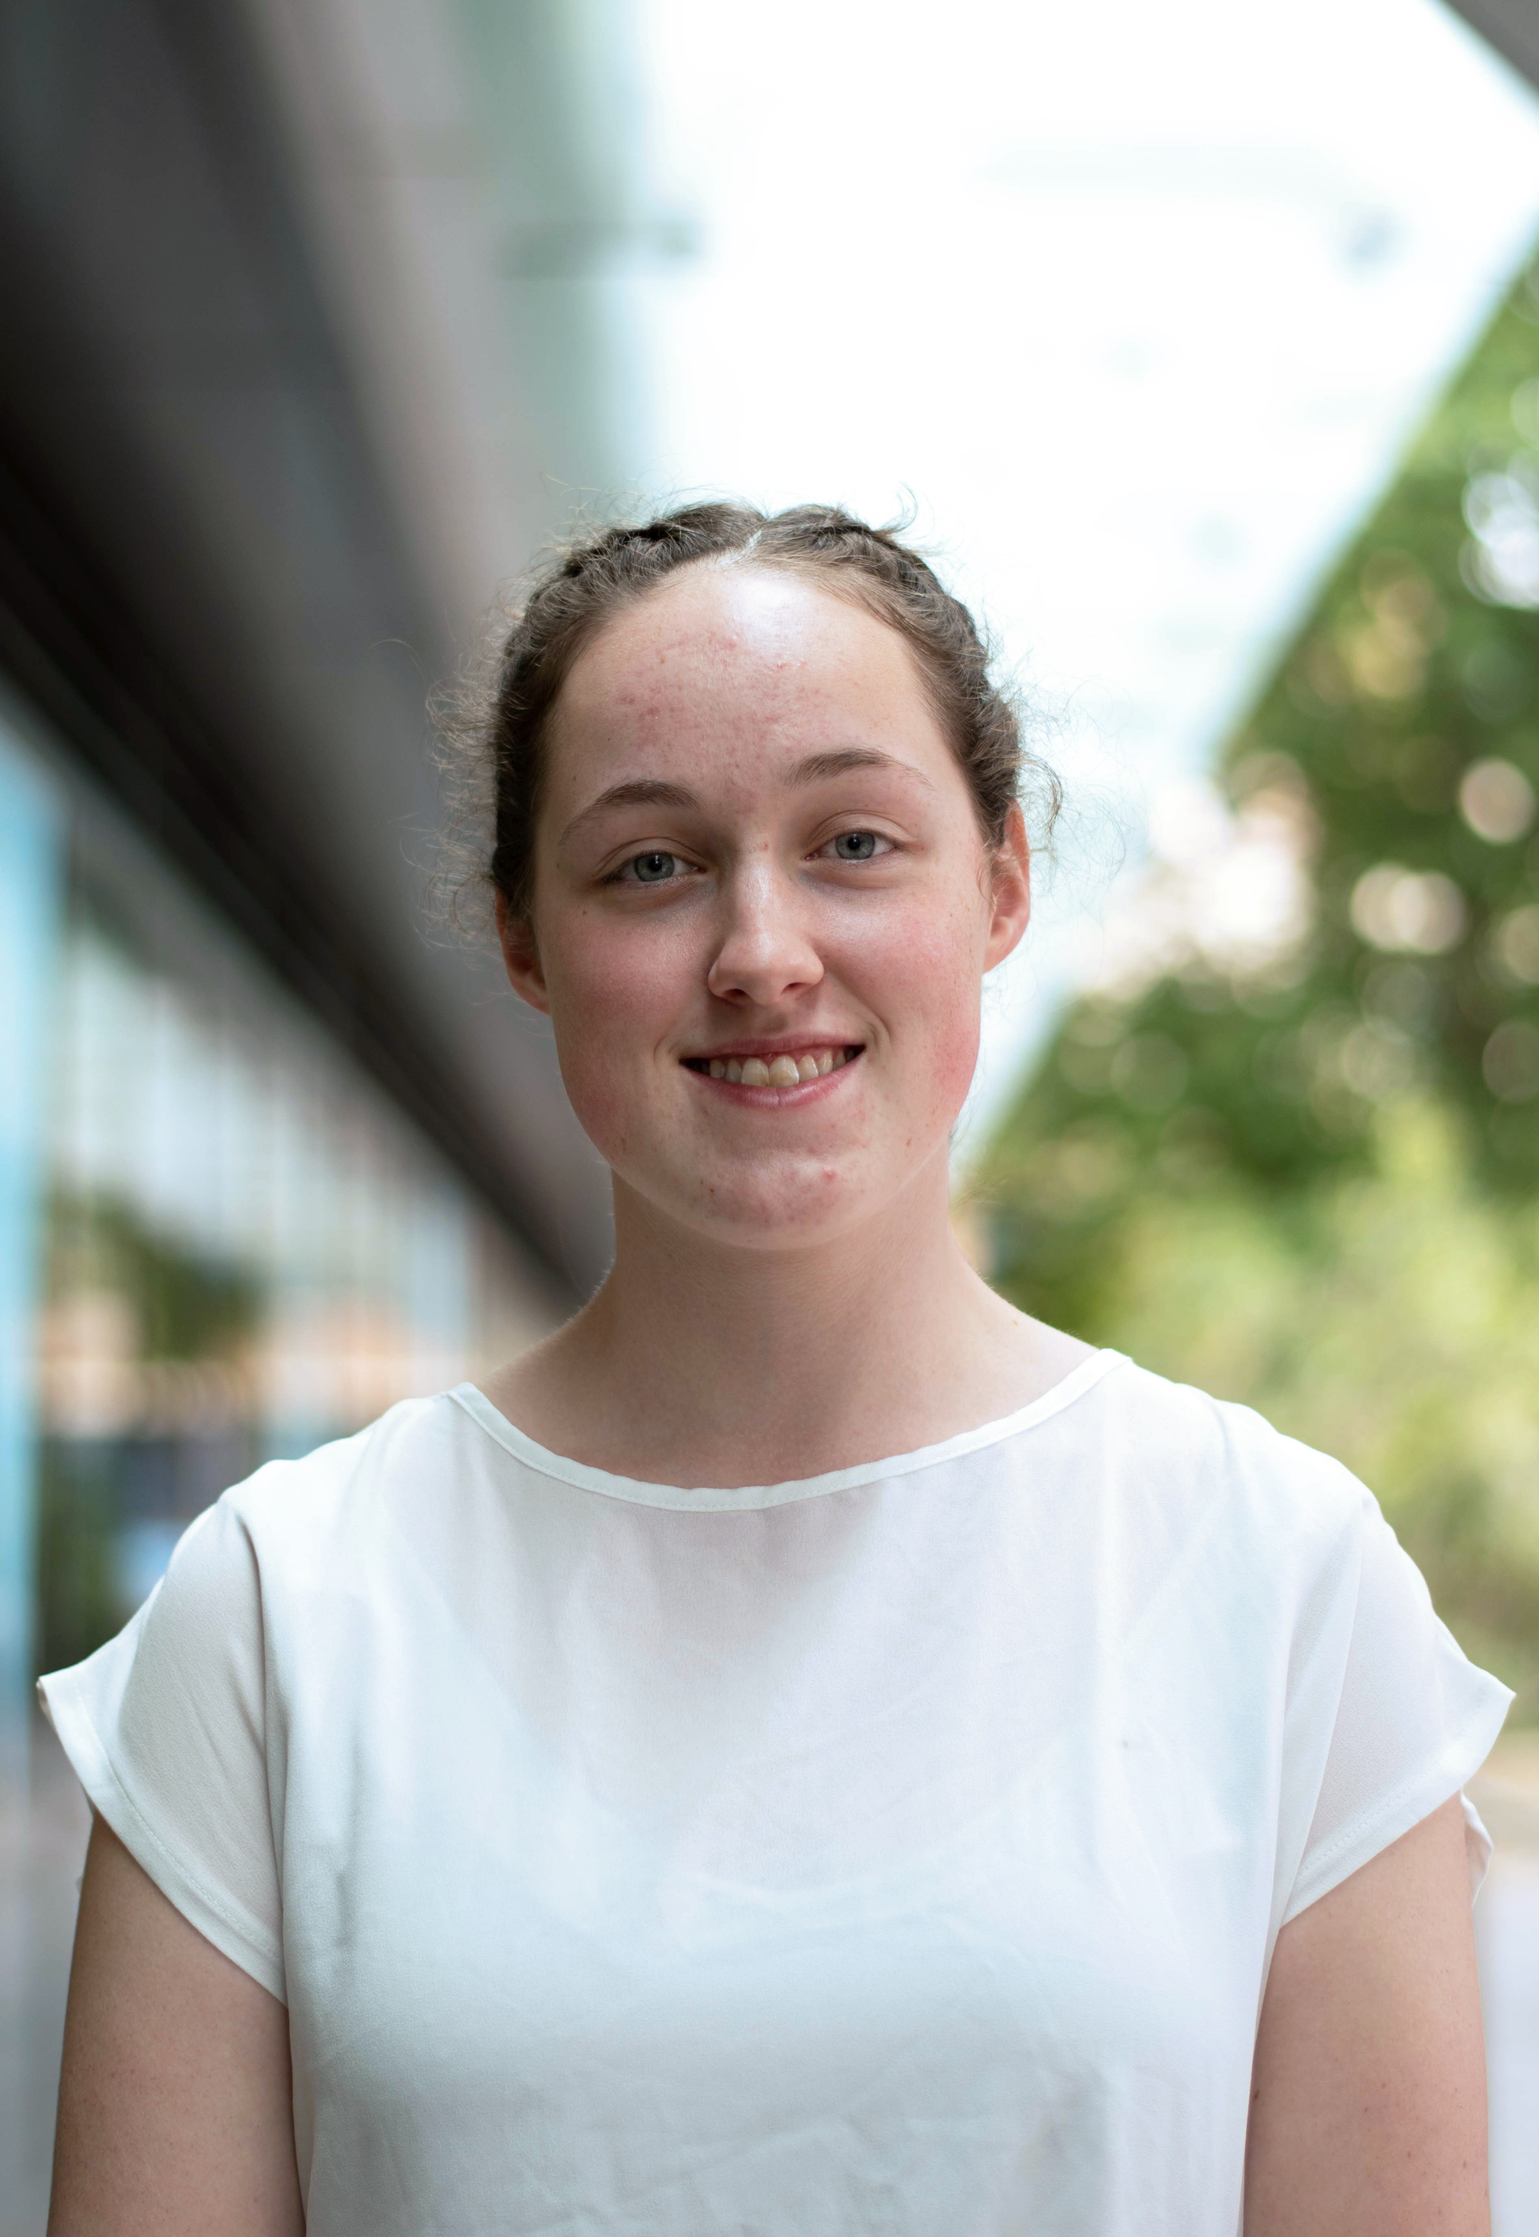
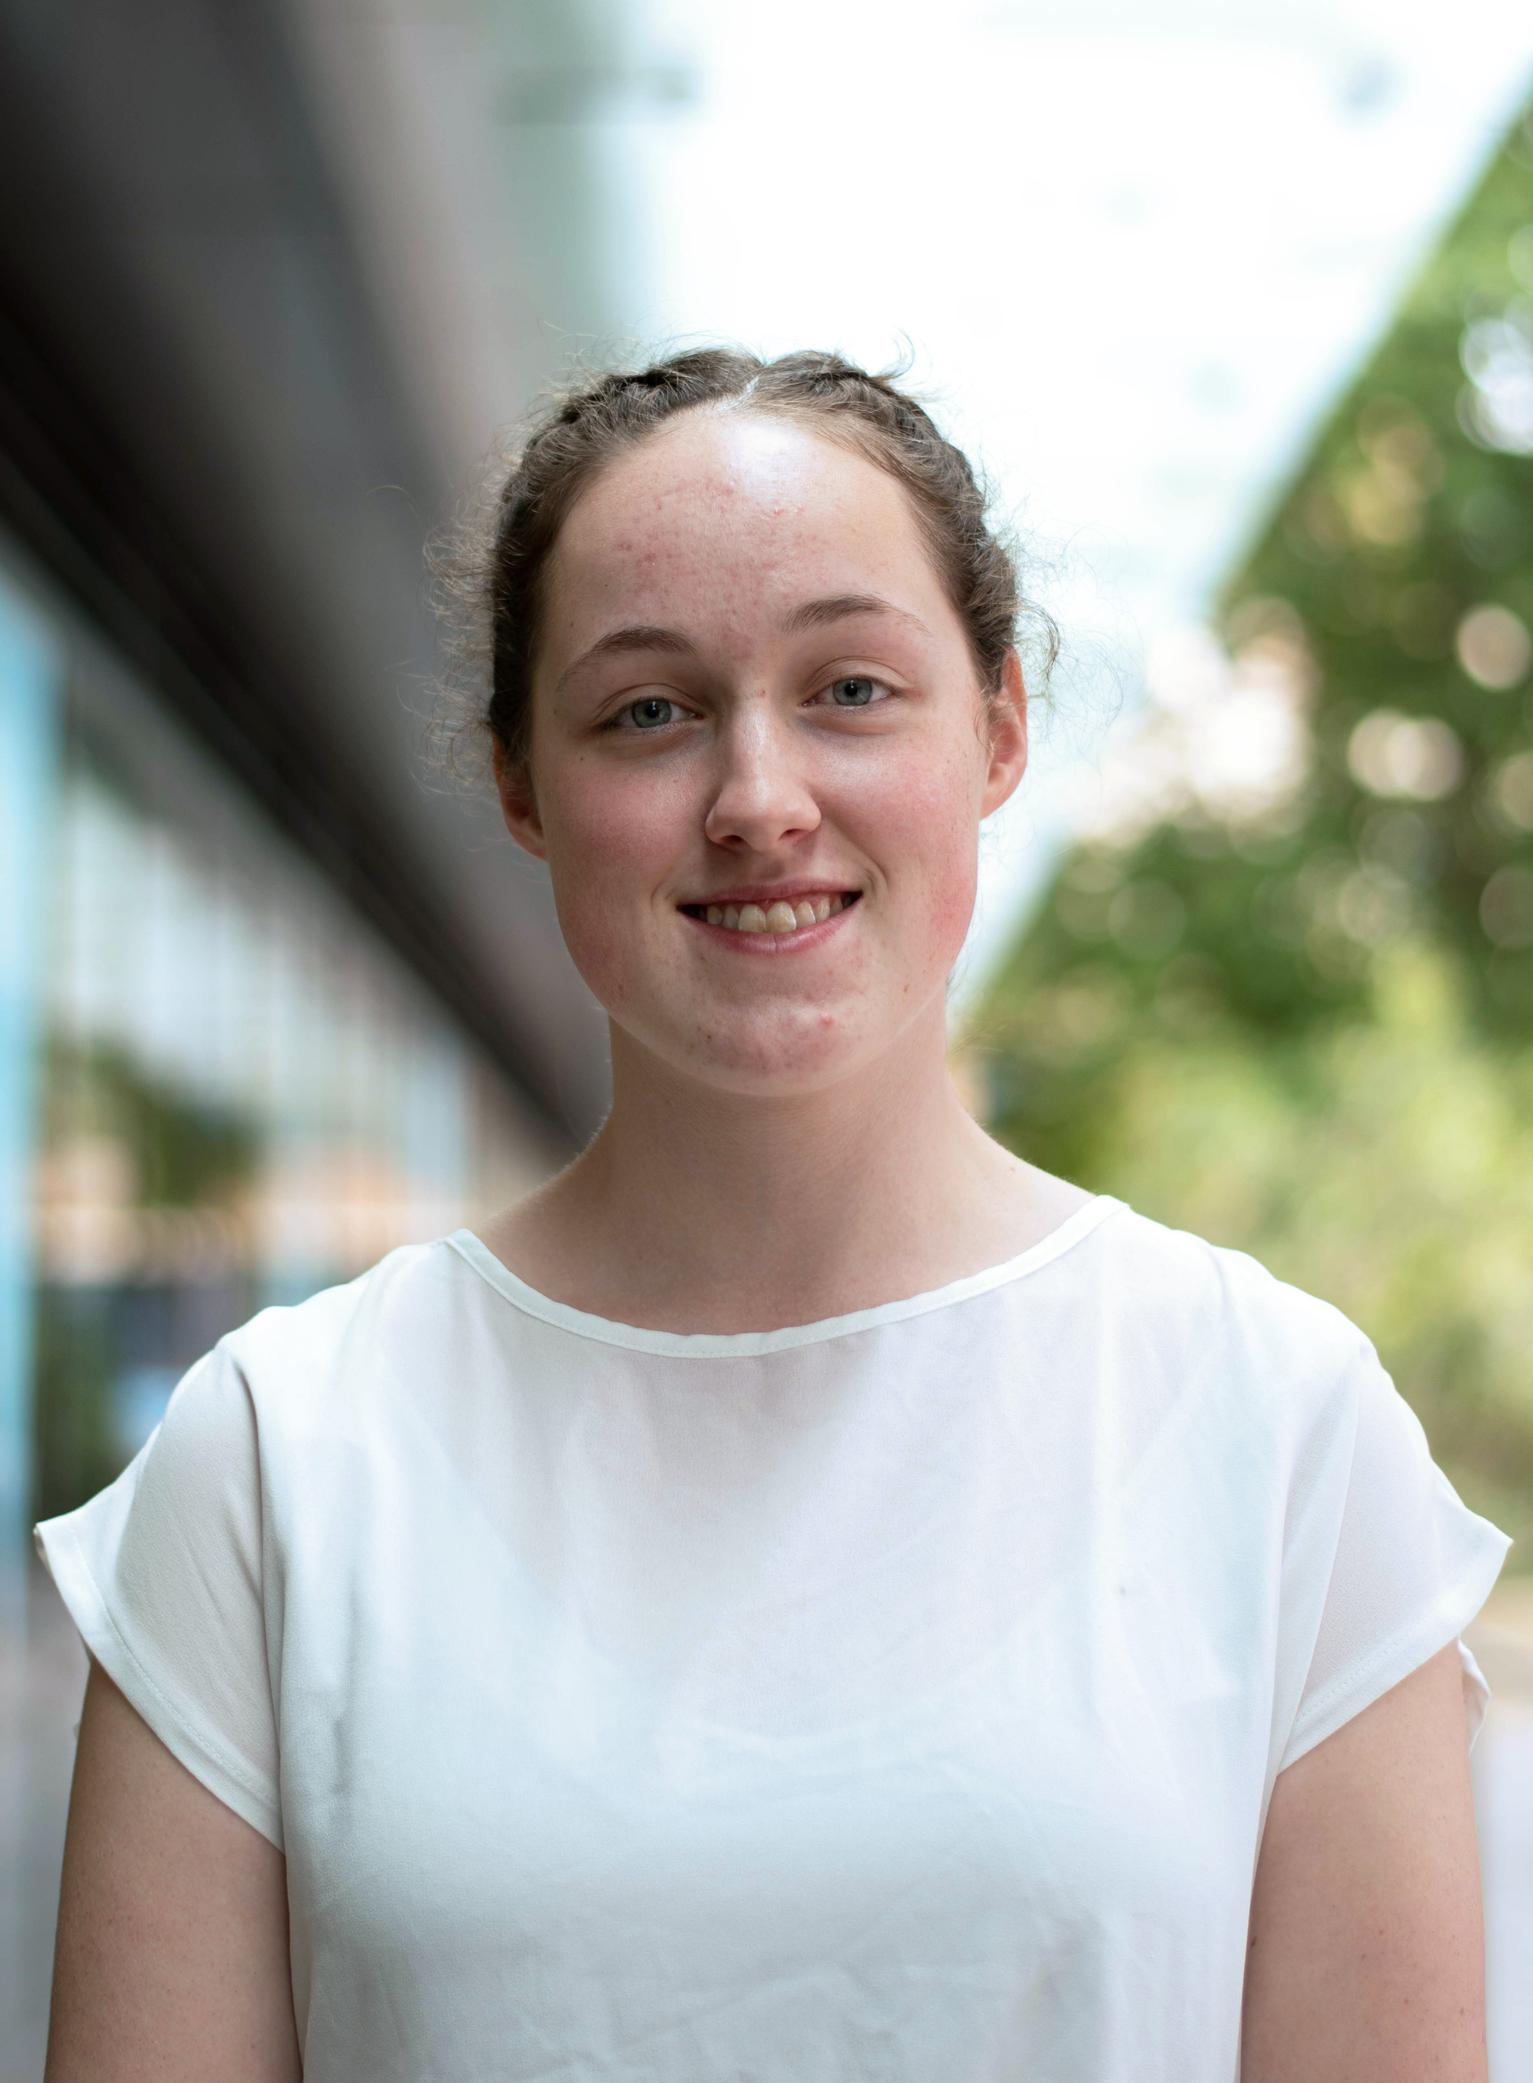
blog 44 release

diff --git a/src/blog-post/blog-post-44.js b/src/blog-post/blog-post-44.js
@@ -1,0 +1,147 @@
+import React, { Component } from "react";
+import ".././style.css";
+import styles from "./blog-post.module.css";
+import AuthorCard from "./authorCard";
+import PageHeader from "../header";
+
+class blogPost39 extends Component {
+  //start webpage at the top
+  componentDidMount() {
+    window.scrollTo(0, 0);
+  }
+
+  render() {
+    return (
+      <div>
+        {/* Cover Photo */}
+        <PageHeader imgUrl="/headers/blog-header.png" title="Blog Post #44" />
+        {/*End of Header*/}
+
+        {/*Start of blog post*/}
+        <div className={styles.blogContent}>
+          <div>
+            <h2 className={styles.blogTitle}>The Only Constant is Change</h2>
+            <p className={styles.date}>4th March 2021</p>
+          </div>
+
+          <div className={styles.post}>
+            <p className={styles.question}>
+              What is your best piece of advice?
+            </p>
+            <p className={styles.postContent}>
+              If there is one lesson we can all take away from 2020, it's that none of us have a crystal ball. We learnt first-hand that it’s impossible to predict the challenges that lay ahead. In the words of  theGreek philosopher Heraclitus, 
+            </p>
+            <p className={styles.postContent} style={{"textAlign":"center"}}>
+              <em>‘The only constant in life is change’.</em>
+            </p> 
+            <p className={styles.postContent}>
+              So, as students, how should we handle the changes and transitions we will face? How do we prepare for our next steps in an uncertain and ever-evolving world? What kind of attitude and skills will we need to weather the storm and emerge victorious?
+            </p>
+            <p className={styles.postContent}>
+              To help answer these questions, we spoke to Zoe Ong, a fourth-year Accounting and Information Systems at UNSW. Zoe’s journey so far has brought her face-to-face with tough decisions, periods of change and testing situations. Her achievements to date are as impressive as they are inspiring, so we decided to ask her to take us through her journey stage by stage to unlock her secrets. 
+            </p>
+            <br />
+
+            <p className={styles.question}>
+              Let’s begin back in 2018 when you were studying a Business Administration and Accountancy degree at the University of the Philippines Diliman. What inspired you to make the move to Australia and study Computer Science and Commerce?
+            </p>
+            <p className={styles.postContent}>
+              I was really attracted by the opportunity to do a double degree in Australia. I felt it was important to build my technical knowledge while also retaining the business element of my degree.
+            </p>
+            <p className={styles.postContent}>
+              Another reason for the move was the fact that I was born and raised in the Philippines, where I was still firmly within my comfort zone. I decided that I wanted to pursue a new experience and see what I could accomplish if I were more independent in a completely new environment. I liked the idea of the challenge and seeing how I could grow through that experience.
+            </p>
+            <br />
+
+            <p className={styles.question}>
+              How would you describe your experience of moving to Sydney?
+            </p>       
+            <p className={styles.postContent}>
+              It was obviously a culture shock and I did struggle at times. I left behind a life that had taken so long to build in order to start afresh in Sydney. That meant having to build a group of friends I could trust and depend on, and establish myself all over again. After the first few months, I definitely felt like I had made a mistake. The way that university is structured is so different here. In the Philippines, I was part of a small cohort and we had plenty of overlapping classes. In Sydney, I soon realised that I could meet someone in a tutorial and then never speak to them again. As an introverted person, it takes a while for me to build relationships with people, so only being able to see one person once, or a handful of times, and having to quickly establish that relationship and rapport was challenging for me.
+            </p>   
+            <p className={styles.postContent}>
+              That said, the transition was also quite exciting with all of the constant change. I felt a general sense of gratitude, to be able to have this opportunity to experience these new things I would never have been able to experience in the Philippines. Without coming here, I wouldn't have been able to achieve all the things that have helped me build my confidence and understand myself more and realise what type of person I am. I wouldn’t have learned these things if I were still sheltered in my comfort zone. 
+            </p>   
+            <br />
+
+            <p className={styles.question}>
+              What extracurricular activities did you get involved in as a first-year here, and what drove you towards choosing those particular societies?
+            </p>
+            <p className={styles.postContent}>
+              In my first year, I joined the subcommittee of UNIT. I wanted to join UNIT because, in the Philippines, I had joined a finance society, which I loved, and so I wanted to get involved in something similar. 
+            </p>
+            <p className={styles.postContent}>
+              I also joined Capital W,because I knew I wanted to be in business and I admired a lot of female entrepreneurs. Having a society dedicated to empowering women aligned with my values. I wanted to be part of a community of women who were also interested in business and shared similar aspirations.
+            </p>
+            <p className={styles.postContent}>
+              And finally, I joined the events subcommittee of the Alternative Investment Society because I was especially interested in venture capital and the startup space. I felt like it would help me,  as a future entrepreneur, understand how to get funding and how to appeal to investors. 
+            </p>
+            <br />
+
+            <p className={styles.question}>
+              How did these experiences change you as a person?
+            </p>
+            <p className={styles.postContent}>
+              Having wanted to push myself outside of my comfort zone, I realized that somehow all my choices in my first year were based on what I had done in the past. I used to be in a finance society in the Philippines, so I joined a finance society in Sydney. I used to be on an events committee in high school, so I joined an events subcommittee here. 
+            </p>
+            <p className={styles.postContent}>
+              Although I did move to Sydney because I wanted that change, I will admit that when I first moved it was a struggle to have to handle all of that change at once. So to keep myself from getting completely overwhelmed, I did try to think about some of the interests that I still had, and that I could kind of bring into my new life to have an anchor, so I didn’t get swept away by all these changes that were happening. 
+            </p>
+            <p className={styles.postContent}>               
+              I think there’s a lesson in there, that you can continuously change, grow and explore, without having to completely abandon past versions of yourself. Some people think that in order to truly feel like you’ve grown, you have to take on a completely new role or do things that are completely different from things you’ve done in the past. That's not necessarily true. I believe that if you already know what you like doing, and that's part of who you are, you can grow by building on it. 
+            </p>
+            <p className={styles.postContent}>
+              This is vertical growth. I think this can be better than horizontal growth, which is expanding all of your interests, but not really building on any of them. That was something I was quite concerned about in my first year as well. I tried very hard to make sure I was growing vertically, instead of just trying out a bunch of random things without any sense of direction. I don't think you have to know exactly what you want but you need to have a bit of a plan and a sense of where you're going. It’s perfectly fine to head down one road and realise it’s not for you but you should let your experiences strengthen your internal compass. Then you know that when you move, you're moving forward.
+            </p>
+            <br />
+
+            <p className={styles.question}>
+              What did you learn from your society roles and how did these help you transition to your internships at L’Oreal and Deloitte?
+            </p>
+            <p className={styles.postContent}>
+              I learned some technical skills from my society experiences, such as website design, user experience, and SQL. This was beneficial in terms of securing an internship as I could show an aptitude for tech and an ability to learn. I think that’s more important than being a technical ‘expert’ when it comes to internships. 
+            </p>
+            <p className={styles.postContent}>
+              Also, as a natural introvert working with a lot of talented people and strong personalities, I also learned that if I wanted to make an impact, I had to speak up and make sure my voice was heard. When you’re in front of a client, your first impression can be your last impression, so you have to step up and speak up, even if it doesn’t come naturally. 
+            </p>
+            <p className={styles.postContent}>
+              I also learned that soft skills are critical. For example, at Deloitte I had to ask clients a lot of questions, you really need to focus and make sure you're paying attention and listen actively. You need to be able to question the information they give you and ask insightful questions to get the information that you need. Strong verbal and written communication is crucial, too. You can learn technical knowledge as you go along but developing soft skills is key.
+            </p>
+            <br />
+
+            <p className={styles.question}>
+              How do you adapt to changes in life? 
+            </p>
+            <p className={styles.postContent}>
+              I just dive in, and learn and grow as I go along. I am very contemplative but I try to act before I reach the point of overthinking and analysis paralysis. You have to have grit and approach changes with hope and optimism, especially when you have a hard time adjusting at first. The right mindset is key. 
+            </p>
+            <p className={styles.postContent}>
+              Another important thing when dealing with change is a good support system. Build and nurture your support system because it can be the one constant when everything changes around you. A solid group of friends and family will keep you grounded and help you cope with constant change. 
+            </p>
+            <br />
+
+            <p className={styles.question}>
+              Who inspires you?
+            </p>
+            <p className={styles.postContent}>
+              I do admire people like Bill Gates, Elon Musk, and Warren Buffett. However, what inspires me the most is thinking back on times when I really wanted and pictured something and it ultimately happened for me. That's really motivating, especially when there are times when I'm still in the phase where I'm still trying to achieve something I really want. When I think about what I have accomplished and remember that I actually pictured these achievements months, or even years before, I feel energised to keep going and be even better than my past self. It’s important to keep a level of gratitude though, and not take things for granted when they do work out. 
+            </p>
+          </div>
+        </div>
+        {/*for the blog post author*/}
+        <AuthorCard
+          authors={{
+            "georgie-mansfield": [
+              "/potraits/blog-authors/vivianw2021.jpg",
+              styles.authorProfile,
+              "Vivian Wong",
+              "Co-President"
+            ]
+          }}
+        />
+        {/*End of blog posts*/}
+      </div>
+    );
+  }
+}
+export default blogPost39;

diff --git a/src/App.js b/src/App.js
@@ -201,7 +201,7 @@ class App extends Component {
             <Route exact path="/podcast" component={Podcast} />
             <Route path="/podcast/:episode" component={EpisodePage} />
             <Route path="/publications" component={Publications} />
-            {Array.from({length: 43}, (_, index) => index + 1).map((blogNo) => {
+            {Array.from({length: 44}, (_, index) => index + 1).map((blogNo) => {
               return <Route 
                 key={blogNo} 
                 path={"/blog/" + blogNo} 

diff --git a/src/blog-post/blog-post-41.js b/src/blog-post/blog-post-41.js
@@ -161,7 +161,7 @@ class blogPost39 extends Component {
           authors={{
             "georgie-mansfield": [
               "/potraits/blog-authors/georgie2021.jpg",
-              styles.exec2021Img,
+              styles.authorProfile,
               "Georgie Mansfield",
               "Education Executive"
             ]

diff --git a/src/blog-post/blog-post-42.js b/src/blog-post/blog-post-42.js
@@ -118,7 +118,7 @@ class blogPost39 extends Component {
           authors={{
             "georgie-mansfield": [
               "/potraits/blog-authors/georgie2021.jpg",
-              styles.exec2021Img,
+              styles.authorProfile,
               "Georgie Mansfield",
               "Education Executive"
             ]

diff --git a/src/blog-post/blog-post-40.js b/src/blog-post/blog-post-40.js
@@ -75,7 +75,7 @@ class blogPost39 extends Component {
           authors={{
             "georgie-mansfield": [
               "/potraits/blog-authors/georgie2021.jpg",
-              styles.exec2021Img,
+              styles.authorProfile,
               "Georgie Mansfield",
               "Education Executive"
             ]

diff --git a/src/blog-post/blog-post.module.css b/src/blog-post/blog-post.module.css
@@ -207,12 +207,6 @@ img.floatRight {
   width: 120%;
 }
 
-.exec2021Img {
-  height: auto;
-  width: 115%;
-  transform: translate(-5%, -13%);
-}
-
 /*Author details*/
 .authorRight {
   display: inline-block;
